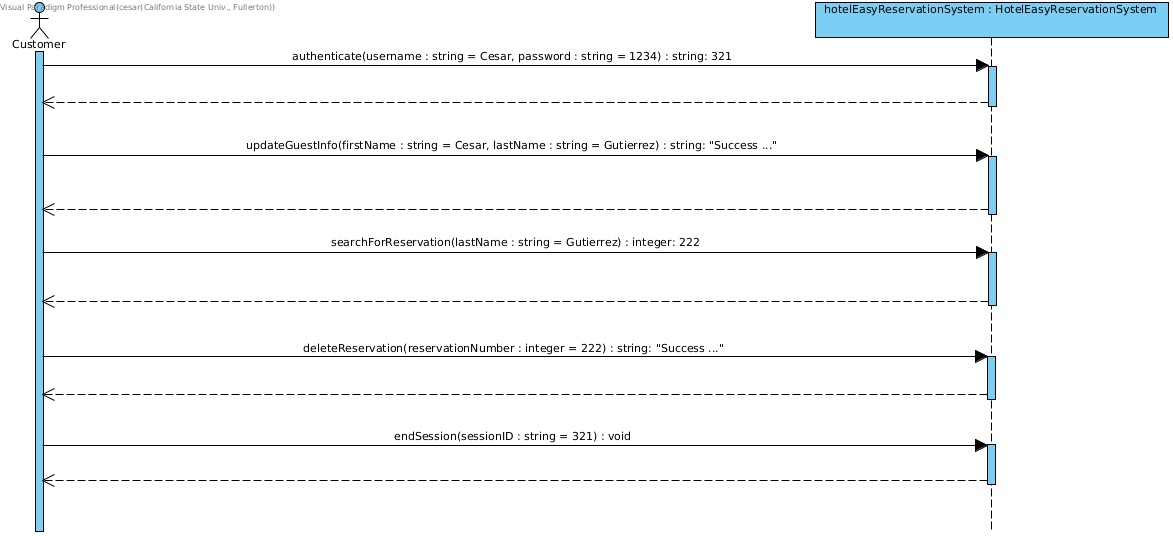
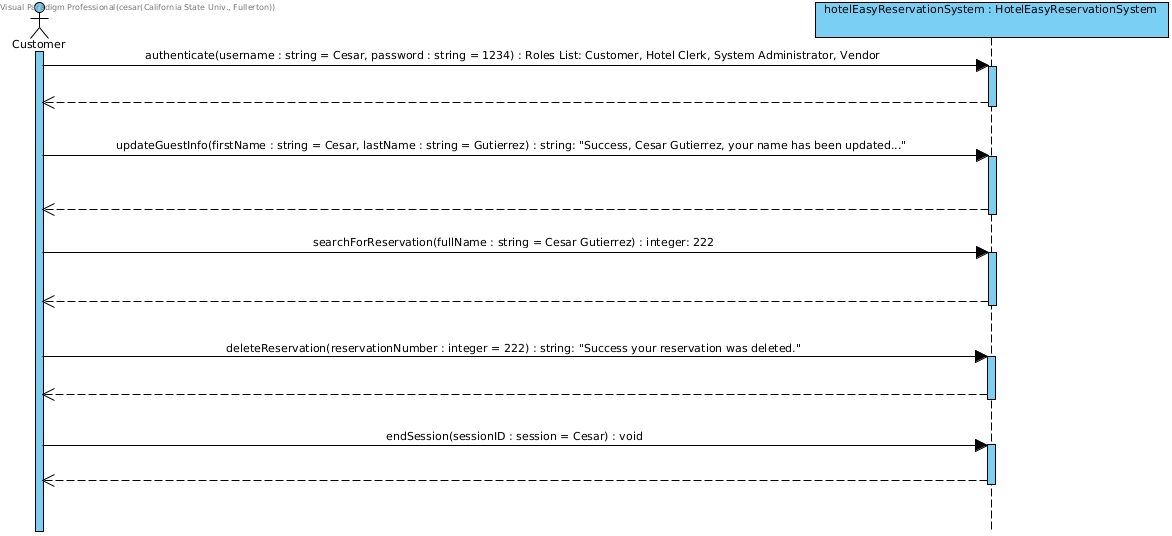
finished

diff --git a/Lab5/Domain/Session/Session.cpp b/Lab5/Domain/Session/Session.cpp
@@ -125,7 +125,7 @@ namespace  // anonymous (private) working area
     if( remove )
     {
       reservationNum      = remove->deleteReservation( reservationNum );
-      std::string results = "Success, your reservation " + std::to_string( reservationNum ) + " was deleted.\n";
+      std::string results = "Success, your reservation was deleted.\n";
       return { results };
     }
     else
